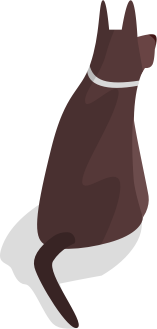
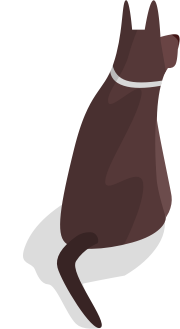
tweaks

diff --git a/true20/index.html b/true20/index.html
@@ -10,8 +10,8 @@
 <meta property="og:image" content="https://truetokensale.com/static/images/logos/logo-share-true.png">
 <meta property="og:type" content="website">
 <meta property="og:site_name" content="True">
-<script src="static/js/vendors.js?cache=1563649475732"></script>
-<link rel="stylesheet" href="static/css/styles.css?cache=1563649475732">
+<script src="static/js/vendors.js?cache=1563729548906"></script>
+<link rel="stylesheet" href="static/css/styles.css?cache=1563729548906">
 <link rel="shortcut icon" type="image/x-icon" href="static/images/favicon.png">
 
     </head>
@@ -77,9 +77,9 @@
                     <img class="main-site__hills3" data-scroll-speed="8" src="static/images/ui/scenery/stage-hills3-4.png" width="100%" />
                     <!-- <div class="hero-stage__fog fog3"></div> -->
                     <img class="main-site__hills4" data-scroll-speed="5" src="static/images/ui/scenery/stage-hills4-5.png" width="100%" />
-                    <img class="main-site__background" src="static/images/ui/backgrounds/bg-main-site11.png" width="100%" />
-                    <!-- <img class="main-site__shine" data-scroll-speed="4" src="static/images/ui/backgrounds/bg-main-shine2.png" width="100%" /> -->
-                    <!-- <img class="main-site__shim" src="static/images/ui/backgrounds/bg-main-shim.png" width="100%" /> -->
+                    <img class="main-site__background" src="static/images/ui/backgrounds/bg-main-site13.png" width="100%" />
+                    <img class="main-site__shine" data-scroll-speed="5" src="static/images/ui/backgrounds/bg-main-shine3.png" width="100%" />
+                    <img class="main-site__shim" src="static/images/ui/backgrounds/bg-main-shim2.png" width="100%" />
                     <img class="main-site__mountains" data-scroll-speed="-12" src="static/images/ui/scenery/stage-mountains2.png" width="100%" />
                 
 
@@ -175,8 +175,8 @@
                         </div>
 
                         <div class="footer-social">
-                            <div class="footer-social__header">Want to get bumped up the list?</div>
-                            <div class="footer-social__description">Just share True with friends after you sign up.</div>
+                            <div class="footer-social__header">Share True with your friends</div>
+                            <!-- <div class="footer-social__description">Just share True with friends after you sign up.</div> -->
                         </div>
 
                         <div class="footer-social__links">
@@ -217,7 +217,7 @@
     
         </div> -->
         </div>
-        <script src="static/js/app.js?cache=1563649475732"></script>
+        <script src="static/js/app.js?cache=1563729548906"></script>
         <script type="text/javascript" src="//script.crazyegg.com/pages/scripts/0087/6974.js" async="async"></script>
         <!-- Google Analytics -->
         <script>

diff --git a/true20/static/css/styles.css b/true20/static/css/styles.css
@@ -505,6 +505,7 @@ section {
   position: absolute;
   top: 0;
   right: 0;
+  width: 100%;
 }
 .footer-doggers img.-floof2 {
   display: none;
@@ -657,6 +658,12 @@ section {
     transform: translateY(150%) scale(0.7);
   }
 }
+@media (max-width: 1100px) {
+  .footer-doggers {
+    max-width: 13%;
+    width: 13%;
+  }
+}
 @media (max-width: 1000px) {
   .footer-header {
     font-size: 34px;
@@ -699,11 +706,10 @@ section {
   }
 
   .footer-doggers {
-    position: absolute;
     top: 8px;
     left: 400px;
-    max-width: 9%;
-    width: auto;
+    max-width: 13%;
+    width: 13%;
   }
 
   .section-footer {
@@ -726,8 +732,14 @@ section {
   }
 
   .footer-doggers {
-    top: 8px;
-    left: 300px;
+    top: -8px;
+    left: 265px;
+    width: 11%;
+    max-width: 11%;
+  }
+
+  .footer-container {
+    bottom: -84px;
   }
 }
 @media (max-width: 640px) {
@@ -761,8 +773,8 @@ section {
   }
 
   .footer-doggers {
-    top: 93px;
-    left: 266px;
+    top: 72px;
+    left: 230px;
   }
 
   .footer-subheader {
@@ -1251,7 +1263,7 @@ html.-static, body.-static {
   -webkit-transition: all 80s linear;
   transition: all 80s linear;
   position: absolute;
-  top: 52%;
+  top: 42%;
   left: 74%;
   z-index: 100;
 }
@@ -1263,8 +1275,8 @@ html.-static, body.-static {
   -webkit-transition: all 135s linear;
   transition: all 135s linear;
   position: absolute;
-  top: 60%;
-  left: 68%;
+  top: 50%;
+  left: 70%;
   z-index: 100;
 }
 .main-site__balloon2.-animate {
@@ -1327,17 +1339,10 @@ html.-static, body.-static {
 }
 
 .main-site__shine {
-  -webkit-transition: all 1.8s;
-  transition: all 1.8s;
-  -webkit-transition-delay: .6s;
-  transition-delay: .6s;
   position: fixed;
-  opacity: 0;
+  opacity: 1;
   z-index: 3;
   top: 20%;
-}
-.main-site__shine.-animate {
-  opacity: 1;
 }
 
 .section-starts {
@@ -1581,11 +1586,11 @@ html.-static, body.-static {
   }
 
   .main-site__balloon1 {
-    top: 42%;
+    top: 30%;
   }
 
   .main-site__balloon2 {
-    top: 50%;
+    top: 40%;
   }
 
   .section-sharing {
@@ -1700,6 +1705,14 @@ html.-static, body.-static {
   .section-secure {
     top: 105%;
   }
+
+  .main-site__balloon1 {
+    top: 5%;
+  }
+
+  .main-site__balloon2 {
+    top: 15%;
+  }
 }
 @media (max-width: 520px) {
   .section-sharing {
@@ -1712,6 +1725,15 @@ html.-static, body.-static {
 
   .section-secure {
     top: 125%;
+  }
+}
+@media (max-width: 500px) {
+  .main-site__balloon1 {
+    display: none;
+  }
+
+  .main-site__balloon2 {
+    display: none;
   }
 }
 /* button styles
